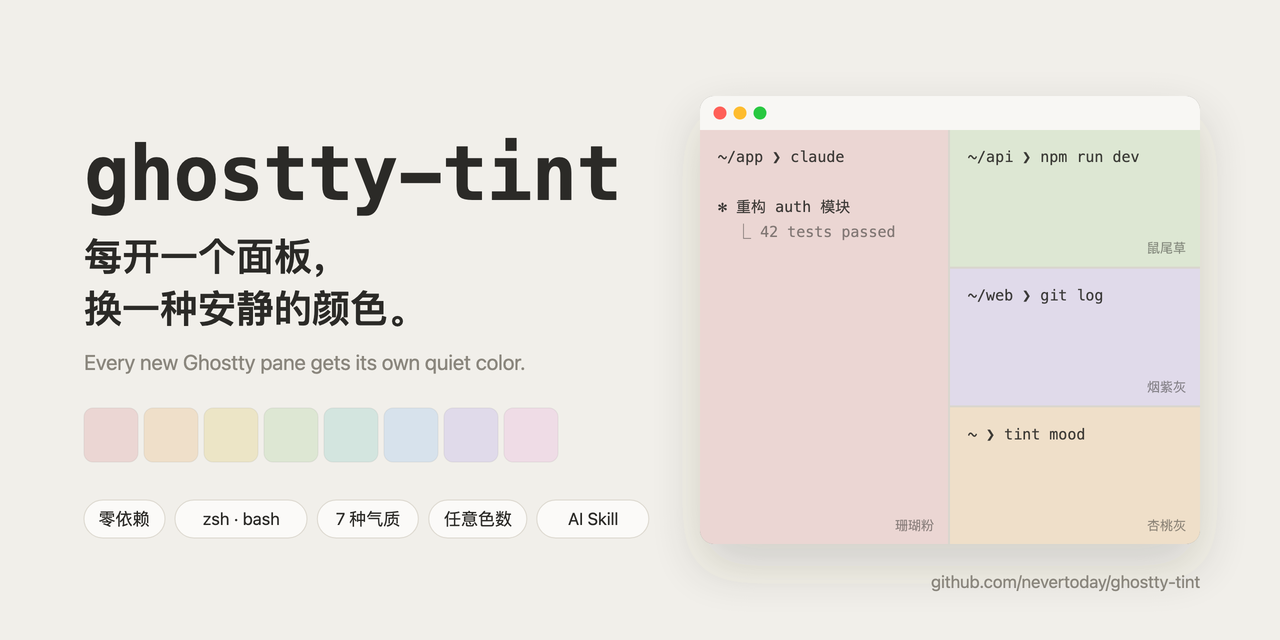
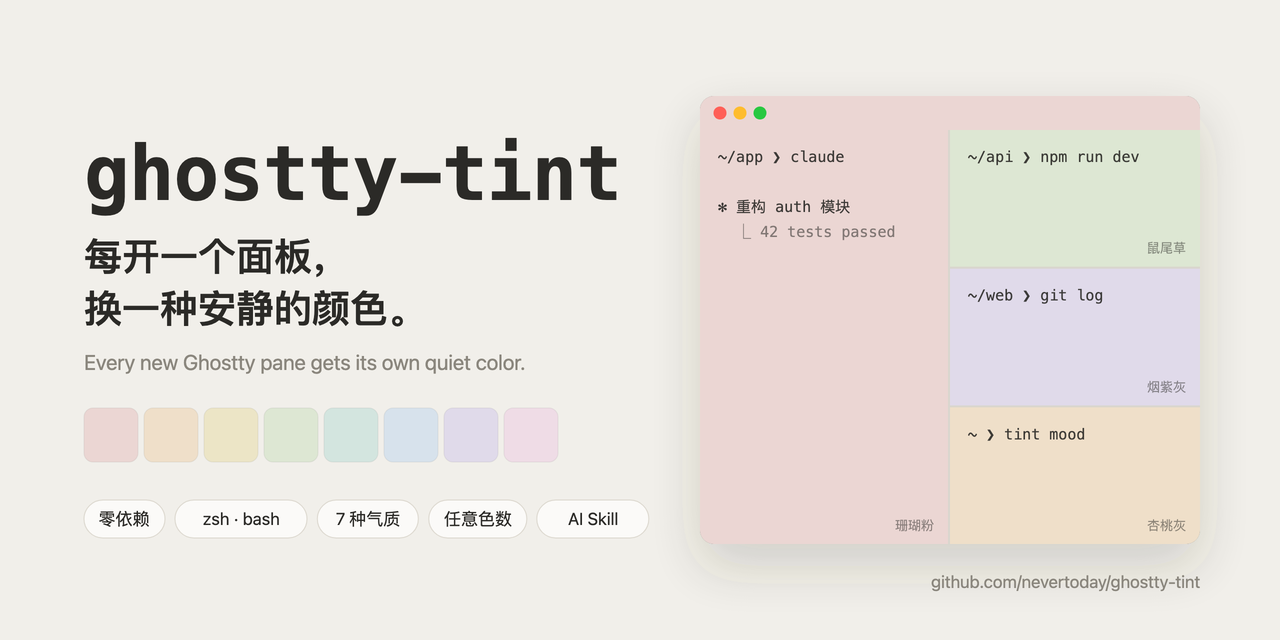
Title bar follows the focused pane's background in all demos
Ghostty's transparent titlebar takes the focused split's background, so
the GIFs, SVG mini windows, social card and playground now do the same.

Changed region(s): [[0.5312, 0.125, 0.9375, 0.2188]]

diff --git a/tools/gif/stage.html b/tools/gif/stage.html
@@ -68,9 +68,11 @@ function moodAt(t, switches) { // switches: [[t0, id], ...] 第一项 t0 = -1
   };
 }
 
-function frame({ panes, mood, title, cap, sub, key, t, fadeIn = 0, fadeOut = 99, stripMood }) {
-  document.getElementById("bar").style.background = mood.chrome;
-  const tt = document.getElementById("title"); tt.textContent = title; tt.style.color = mood.ink;
+function frame({ panes, mood, title, cap, sub, key, t, fadeIn = 0, fadeOut = 99, stripMood, focus = 0 }) {
+  // Ghostty 的透明标题栏跟随「当前聚焦面板」的背景色
+  const fp = panes[Math.min(focus, panes.length - 1)];
+  document.getElementById("bar").style.background = fp.bg;
+  const tt = document.getElementById("title"); tt.textContent = title; tt.style.color = mix(fp.bg, fp.fg, .5);
   const area = document.getElementById("area"); area.style.background = mood.div;
   area.innerHTML = panes.map(p => {
     const W = 840, H = 408;
@@ -161,7 +163,8 @@ function sceneSplit(t) {
   if (t >= 9.8) { cap = "tint mood paper"; sub = T.s4; }
   let key = 0; for (const s of S.splits) if (t > s - .3 && t < s + .25) key = t > s - .08 && t < s + .12 ? 1 : .4;
   if (t < .5) key = 0;
-  frame({ panes, mood, title: `ghostty — ${n} pane${n > 1 ? "s" : ""}`, cap, sub, key, t, fadeIn: .35, fadeOut: S.dur - .45 });
+  // ⌘D 之后焦点在新面板上
+  frame({ panes, mood, title: `ghostty — ${n} pane${n > 1 ? "s" : ""}`, cap, sub, key, t, fadeIn: .35, fadeOut: S.dur - .45, focus: n - 1 });
 }
 
 /* ---------- 场景二：AI Skill，一句话要一种气质 ---------- */
@@ -204,7 +207,7 @@ function sceneSkill(t) {
   });
   const cap = T.cap_skill;
   const sub = t < S.apply ? T.sub_skill : `${T.kyoto} · ${T.count8} · ${K.names.join(" ")}`;
-  frame({ panes, mood, title: "ghostty — claude", cap, sub, key: 0, t, fadeIn: .35, fadeOut: S.dur - .45, stripMood: t < S.apply ? M.paper : K });
+  frame({ panes, mood, title: "ghostty — claude", cap, sub, key: 0, t, fadeIn: .35, fadeOut: S.dur - .45, stripMood: t < S.apply ? M.paper : K, focus: 0 });
 }
 
 /* ---------- 入口 ---------- */

diff --git a/docs/index.html b/docs/index.html
@@ -186,6 +186,7 @@ function hexToOklab(hx) {
   const s = Math.cbrt(0.0883024619 * r + 0.2817188376 * g + 0.6299787005 * b);
   return [0.2104542553 * l + 0.7936177850 * m - 0.0040720468 * s, 1.9779984951 * l - 2.4285922050 * m + 0.4505937099 * s, 0.0259040371 * l + 0.7827717662 * m - 0.8086757660 * s];
 }
+const mixHex = (a, b, p) => "#" + [1, 3, 5].map(i => Math.round(parseInt(a.slice(i, i + 2), 16) * (1 - p) + parseInt(b.slice(i, i + 2), 16) * p).toString(16).padStart(2, "0")).join("");
 const lum = hx => { const [r, g, b] = [1, 3, 5].map(i => toLin(parseInt(hx.slice(i, i + 2), 16) / 255)); return 0.2126 * r + 0.7152 * g + 0.0722 * b; };
 const contrast = (a, b) => { const [x, y] = [lum(a), lum(b)].sort((p, q) => q - p); return (x + 0.05) / (y + 0.05); };
 const gcd = (a, b) => b ? gcd(b, a % b) : a;
@@ -239,8 +240,9 @@ function render() {
   document.querySelectorAll(".mood").forEach(b => b.setAttribute("aria-pressed", String(b.dataset.id === S.mood && S.exact)));
 
   // 窗口
-  const chrome = S.dark ? "#1B1C20" : "#F8F7F4";
-  $("bar").style.background = chrome; $("barTitle").style.color = S.dark ? "#8E9097" : "#9A968C";
+  // Ghostty 的透明标题栏跟随当前聚焦面板（最新打开的那个）的背景色
+  const focused = palette[order[(S.opened - 1) % n]].hex;
+  $("bar").style.background = focused; $("barTitle").style.color = mixHex(focused, F, .5);
   $("barTitle").textContent = `ghostty — ${S.opened} pane${S.opened > 1 ? "s" : ""}`;
   const P = $("panes"), k = S.opened, cols = k <= 1 ? 1 : k <= 4 ? 2 : 3, rows = Math.ceil(k / cols);
   P.style.background = S.dark ? "#0E0F12" : "#D9D6CE";

diff --git a/tools/build.py b/tools/build.py
@@ -48,6 +48,15 @@ def load_moods() -> list[dict]:
     return out
 
 
+def mixhex(a: str, b: str, p: float) -> str:
+    return "#" + "".join(f"{round(int(a[i:i + 2], 16) * (1 - p) + int(b[i:i + 2], 16) * p):02X}" for i in (1, 3, 5))
+
+
+def bar_ink(m: dict, bg: str) -> str:
+    """标题栏文字：前景色和标题栏底色各一半"""
+    return mixhex(bg, m["fg"], .5)
+
+
 def tw(s: str, size: float = 13.5) -> float:
     """等宽字体下的大致文字宽度：ASCII 0.6em，中日韩 1em"""
     return sum(size if ord(ch) > 0x2E80 else size * 0.602 for ch in s)
@@ -122,13 +131,13 @@ def hero(moods: list[dict]) -> str:
          f'<g clip-path="url(#win)">',
          f'<rect x="{wx}" y="{wy}" width="{ww}" height="{wh}" fill="{moods[0]["divider"]}">'
          + anim("fill", track(lambda m: m["divider"]), dur, kt) + '</rect>',
-         f'<rect x="{wx}" y="{wy}" width="{ww}" height="{tb}" fill="{moods[0]["chrome"]}">'
-         + anim("fill", track(lambda m: m["chrome"]), dur, kt) + '</rect>']
+         f'<rect x="{wx}" y="{wy}" width="{ww}" height="{tb}" fill="{moods[0]["spread"][0]}">'
+         + anim("fill", track(lambda m: m["spread"][0]), dur, kt) + '</rect>']  # 标题栏跟随聚焦面板（左侧大面板）
     for i, c in enumerate(["#FF5F57", "#FEBC2E", "#28C840"]):
         o.append(f'<circle cx="{wx + 20 + i * 20}" cy="{wy + tb / 2}" r="6" fill="{c}"/>')
     o.append(f'<text x="{wx + ww / 2}" y="{wy + tb / 2 + 4.5}" text-anchor="middle" font-family="{SANS}" '
-             f'font-size="12.5" fill="{moods[0]["chrome_ink"]}">ghostty — 4 panes'
-             + anim("fill", track(lambda m: m["chrome_ink"]), dur, kt) + '</text>')
+             f'font-size="12.5" fill="{bar_ink(moods[0], moods[0]["spread"][0])}">ghostty — 4 panes'
+             + anim("fill", track(lambda m: bar_ink(m, m["spread"][0])), dur, kt) + '</text>')
 
     for pi, (x, y, w, h) in enumerate(panes):
         o.append(f'<rect x="{x}" y="{y}" width="{w}" height="{h}" fill="{moods[0]["spread"][pi]}">'
@@ -345,7 +354,7 @@ def gallery(moods: list[dict], lang: str = "zh") -> str:
             c.raw(f'<clipPath id="{cid}"><rect x="{c.X(mx):.1f}" y="{my}" width="{mw}" height="{mh}" rx="8"/></clipPath>')
             c.raw(f'<g clip-path="url(#{cid})">')
             c.rect(mx, my, mw, mh, fill=m["divider"])
-            c.rect(mx, my, mw, 16, fill=m["chrome"])
+            c.rect(mx, my, mw, 16, fill=m["spread"][0])  # 标题栏跟随聚焦面板
             lights(c, mx + 10, my + 8, 3, 9)
             hw, hh = (mw - 1.5) / 2, (mh - 16 - 1.5) / 2
             for p in range(4):
@@ -413,7 +422,7 @@ def before_after(moods: list[dict], lang: str = "zh") -> str:
             c.rect(x0, y0 + 6, ww, wh, rx=10, fill="#3A3326", opacity=".08")
             c.raw(f'<g clip-path="url(#{cid})">')
             c.rect(x0, y0, ww, wh, fill=m["divider"])
-            c.rect(x0, y0, ww, 24, fill=m["chrome"])
+            c.rect(x0, y0, ww, 24, fill="#FCFBF9" if side == 0 else m["spread"][0])  # 标题栏跟随聚焦面板
             lights(c, x0 + 14, y0 + 12, 4.5, 14)
             pw, ph = (ww - 4) / 3, (wh - 24 - 2) / 2
             for k in range(6):
@@ -465,7 +474,7 @@ def social(moods: list[dict]) -> str:
     o.append(f'<clipPath id="sw"><rect x="{wx}" y="{wy}" width="{ww}" height="{wh}" rx="14"/></clipPath>')
     o.append(f'<rect x="{wx}" y="{wy}" width="{ww}" height="{wh}" rx="14" fill="#000" filter="url(#ssh)" opacity=".85"/>')
     o.append(f'<g clip-path="url(#sw)"><rect x="{wx}" y="{wy}" width="{ww}" height="{wh}" fill="{m["divider"]}"/>')
-    o.append(f'<rect x="{wx}" y="{wy}" width="{ww}" height="{tb}" fill="{m["chrome"]}"/>')
+    o.append(f'<rect x="{wx}" y="{wy}" width="{ww}" height="{tb}" fill="{m["spread"][0]}"/>')  # 标题栏跟随聚焦面板
     for i, c in enumerate(["#FF5F57", "#FEBC2E", "#28C840"]):
         o.append(f'<circle cx="{wx + 20 + i * 20}" cy="{wy + tb / 2}" r="6.5" fill="{c}"/>')
     py0, ph = wy + tb, wh - tb
